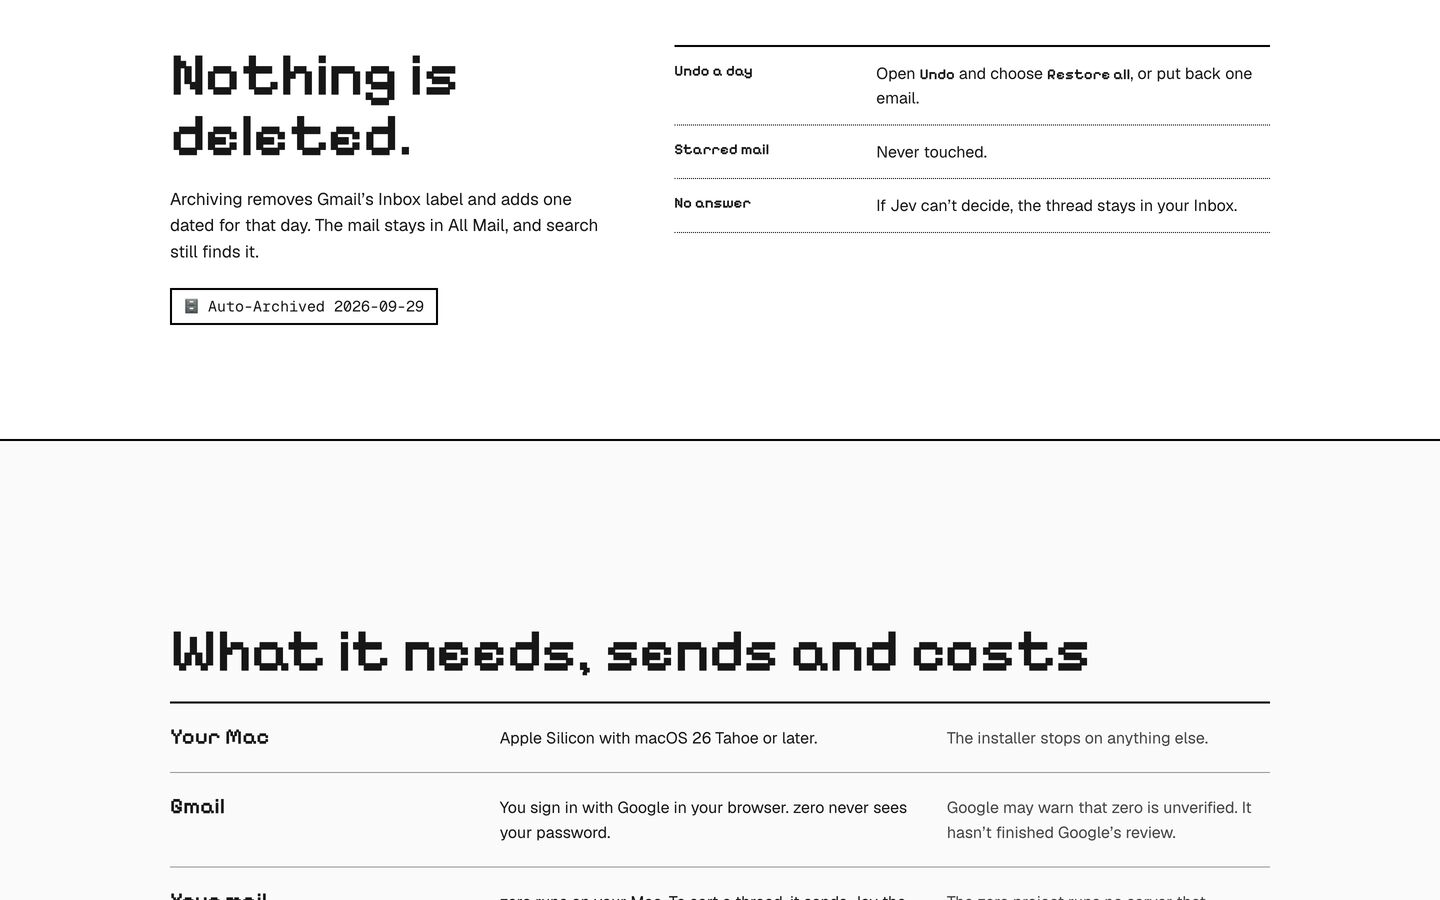
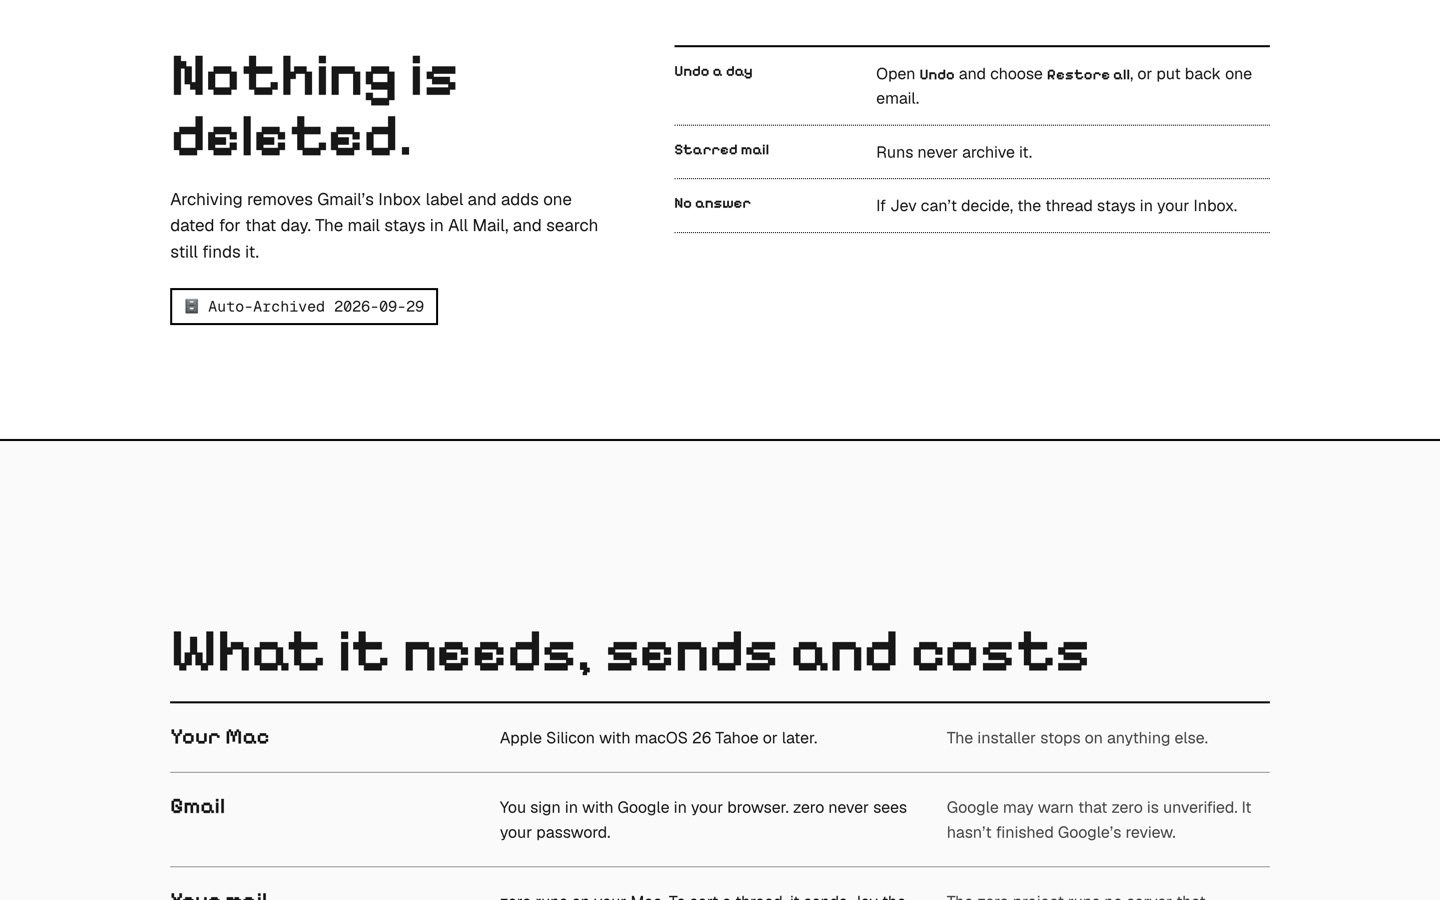
02b: acceptance-path checks (live install hash, TypeSafe link, links, parity), retake d4/d5

diff --git a/missions/website-redesign-2/slices/02b-content-structure/PROOF.md b/missions/website-redesign-2/slices/02b-content-structure/PROOF.md
@@ -16,4 +16,14 @@
 | Viewable comp on approved B | `proof/comp/index.html` (+ `phones.html`) | Uses `landing/site.css`/`site.js`/`assets` via symlinks. All 8 assets returned 200 from `127.0.0.1:8935` |
 | Rendered check | `proof/shots/d2-decides … d6-install.jpg`, `phones.jpg` | Aside, 04:56Z: desktop 1440 (innerWidth 1440, scrollWidth 1440), 5 section shots; 390 iframe harness, 3 frames, each `scrollWidth 390 · past right edge 0`. All viewed. An Aside full-page capture repeated the hero (a stitching artifact), so it was discarded and not committed. No hero desktop shot is committed separately, but the hero is the first phone frame, and the desktop hero was viewed in the discarded capture |
 
-**Not verified:** true device emulation (the phone view is a 390 iframe), the TypeSafe keys link (403 to curl in slice 01), and whether the owner prefers this story. That last one is the gate.
+**Acceptance-path checks (05:02Z):**
+- The TypeSafe keys link opens a real "API keys" page in the owner's authenticated browser, checked with Aside. The earlier 403 was curl only.
+- The live install command `curl -fsSL https://zero.headless.com/install` redirects (302) to raw `macapp/install-zero.sh`. The fetched file's SHA-256 equals the repo file.
+- `/install.sh` (the "Read the installer first" link) redirects (302) to the GitHub source view. `/privacy.html` and `/terms.html` return 200 live.
+- GitHub repo and Releases return 200. All 6 in-page anchors resolve.
+- Copy parity between §3 and the comp: 54 of 62 lines match word for word. The other 8 are layout notes, and I checked two of them by hand.
+- `shots/d4-undo.jpg` and `d5-before.jpg` were retaken after ed152a5 and viewed.
+
+**Not verified:**
+- True device emulation. The phone view is a 390 iframe.
+- Whether the owner prefers this story. That is the gate, and it belongs to the owner through main-lead.

diff --git a/missions/website-redesign-2/slices/02b-content-structure/PROGRESS.md b/missions/website-redesign-2/slices/02b-content-structure/PROGRESS.md
@@ -10,4 +10,10 @@
   - "Starred mail: Never touched" is now "Runs never archive it". The code only stops runs from archiving starred mail, and you can still archive a starred thread yourself.
   - The Jev data-flow row now includes "what it has learned from you". `_jev_state` also sends `learned_preferences`, so the earlier wording under-disclosed.
   - The word count is now 608 (was 600) and still within the 500-650 target.
-  - This was a text-only change inside existing paragraphs. I didn't retake the shots, so they show the earlier wording for these two rows.
+  - This was a text-only change inside existing paragraphs.
+- 05:02Z: Acceptance-path checks (evidence in PROOF.md, "Acceptance-path checks").
+  - Retook `d4-undo.jpg` and `d5-before.jpg` with Aside. Both show the ed152a5 wording.
+  - The TypeSafe keys link opens a real "API keys" page in the owner's authenticated browser (Aside). The 403 was curl only.
+  - The live install path works end to end: `zero.headless.com/install` redirects (302) to raw `macapp/install-zero.sh`, and the SHA-256 of the fetched file equals the repo file (e3e29530...). `/install.sh` redirects (302) to the GitHub view, and `/privacy.html` and `/terms.html` return 200.
+  - GitHub repo and Releases return 200. All 6 in-page anchors resolve.
+  - Parity between §3 and the comp: 62 lines checked, and 54 match the comp word for word. The other 8 are layout notes and markup, not copy: the menu, button pair, caption, window label, command and footer, plus the notarized note and meta description, which only failed because of italic markers. I checked those last two by hand and they match.
